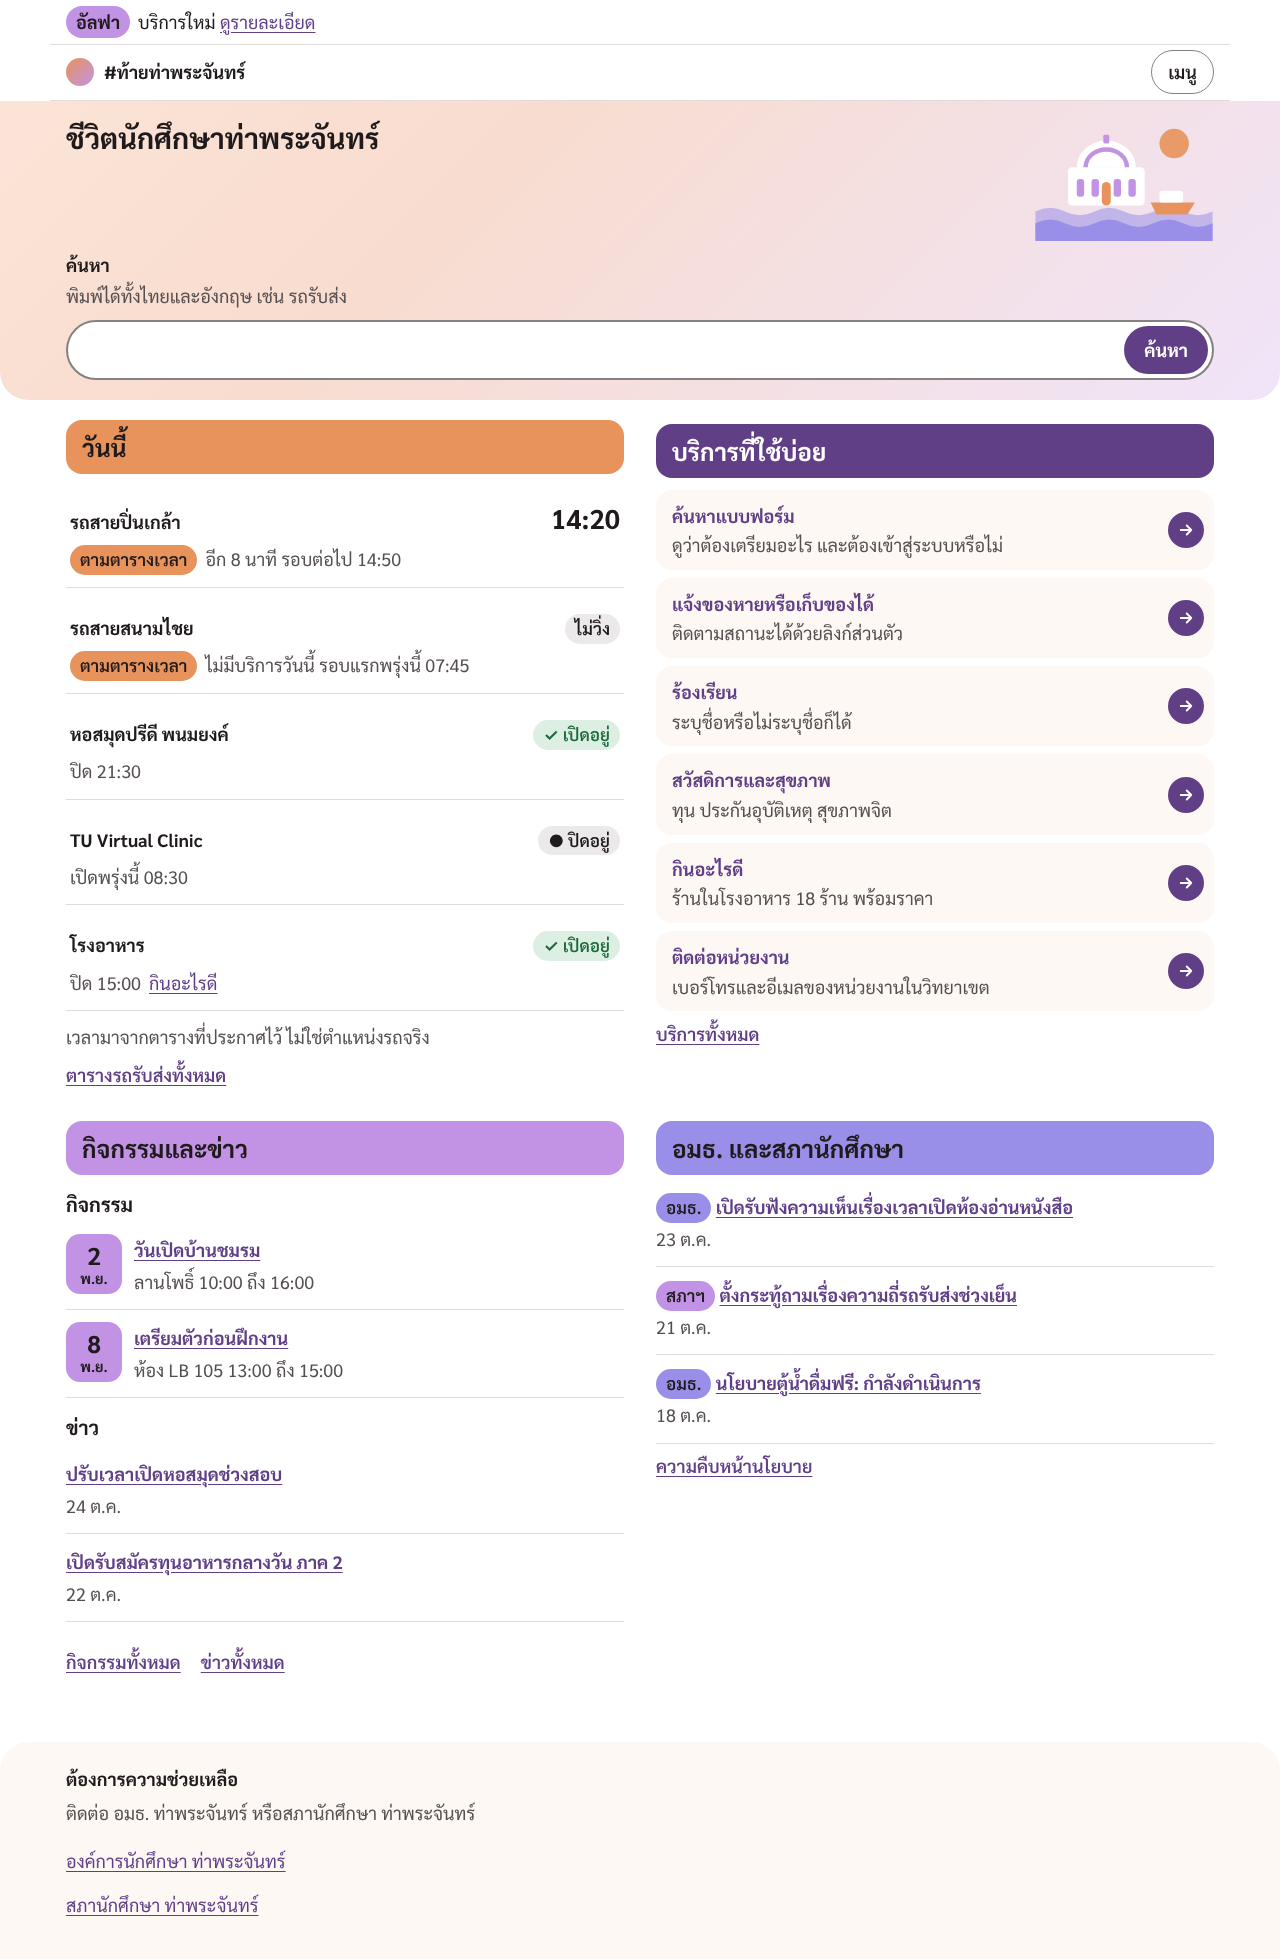
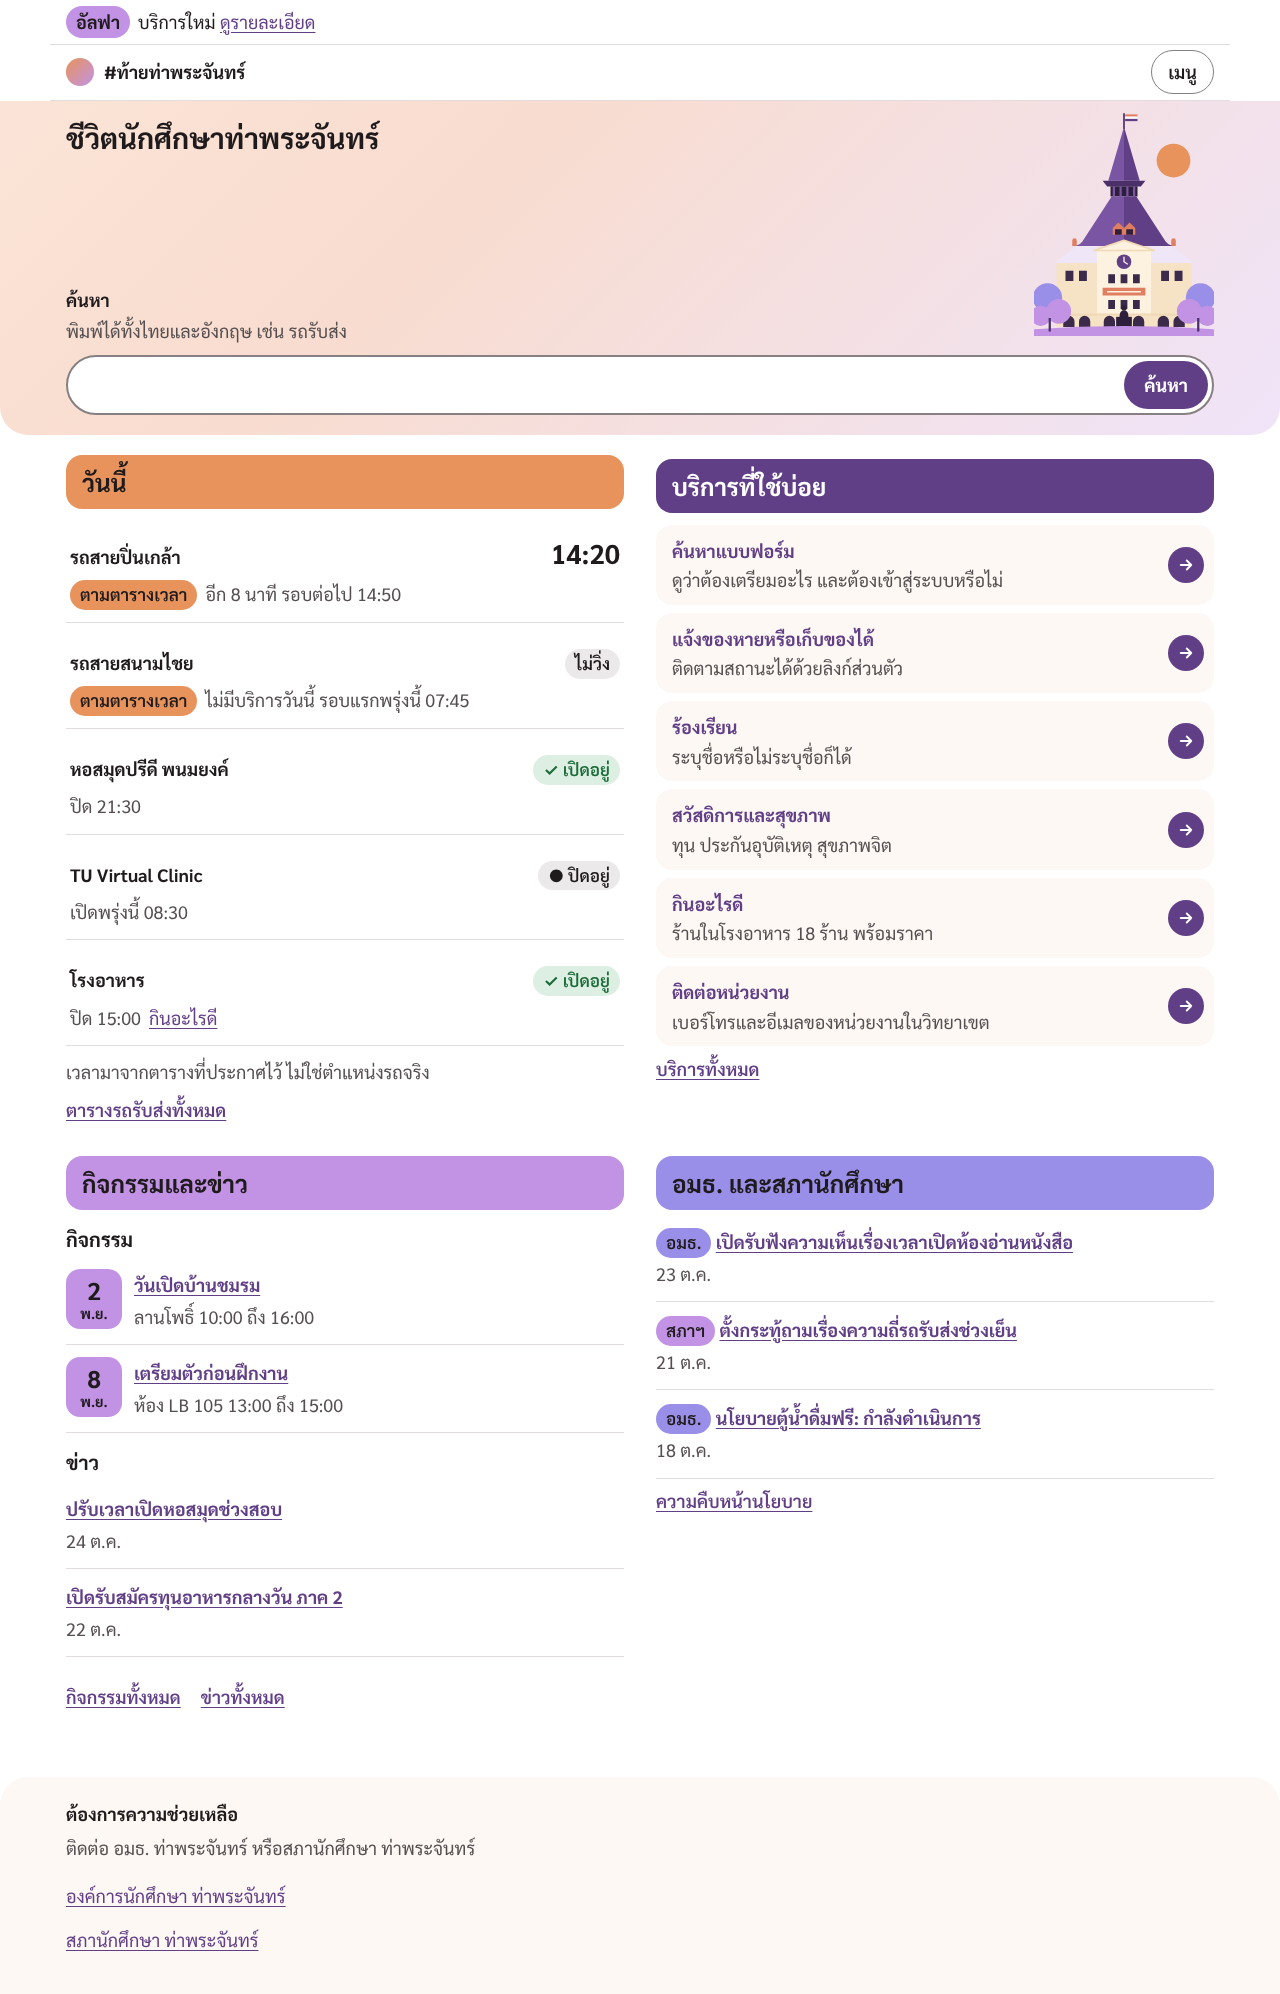
Add the Dome building illustration to the home page mock-up
Claude-Session: https://claude.ai/code/session_01SCeCTKKtYYnQxeXLoo1oGA

diff --git a/docs/mockups/home-warm.html b/docs/mockups/home-warm.html
@@ -87,7 +87,9 @@ a:focus-visible, button:focus-visible, input:focus-visible {
 .band-top { display: flex; align-items: flex-start; justify-content: space-between; gap: 8px; }
 .band h1 { font-size: 1.6rem; font-weight: 700; max-width: 15ch; }
 :lang(th) .band h1 { font-size: 1.6rem; max-width: 12em; }
-.band svg { flex: none; width: 104px; height: 72px; }
+.band .dome { flex: none; width: 100px; margin-block: -6px -34px; }
+.band .dome svg { display: block; width: 100%; height: auto; }
+.band .search { position: relative; }
 .search { margin-top: 8px; }
 .search label { display: block; font-weight: 700; }
 .search .hint { margin: 0 0 8px; color: var(--ink-600); font-size: .875rem; }
@@ -164,7 +166,7 @@ footer li a { display: inline-flex; align-items: center; min-height: var(--targe
 
 @media (min-width: 48rem) {
   .band h1 { font-size: 2.2rem; max-width: none; }
-  .band svg { width: 180px; height: 124px; }
+  .band .dome { width: 180px; margin-bottom: -60px; }
   .grid2 { display: grid; grid-template-columns: 1fr 1fr; gap: 0 32px; align-items: start; }
 }
 </style>
@@ -173,18 +175,42 @@ footer li a { display: inline-flex; align-items: center; min-height: var(--targe
 <div id="app"></div>
 <template id="landmarks">
   <svg viewBox="0 0 120 84" aria-hidden="true" focusable="false">
-    <circle cx="94" cy="18" r="10" fill="var(--fill-transport)" opacity=".9"/>
-    <rect x="22" y="34" width="52" height="26" rx="3" fill="var(--surface)"/>
-    <path d="M28 34 a20 18 0 0 1 40 0 z" fill="var(--surface)"/>
-    <path d="M34 34 a14 12 0 0 1 28 0" fill="none" stroke="var(--fill-activity)" stroke-width="3"/>
-    <rect x="46" y="12" width="4" height="6" rx="1" fill="var(--fill-activity)"/>
-    <g fill="var(--fill-activity)"><rect x="28" y="42" width="5" height="12" rx="2"/><rect x="38" y="42" width="5" height="12" rx="2"/><rect x="53" y="42" width="5" height="12" rx="2"/><rect x="63" y="42" width="5" height="12" rx="2"/></g>
-    <rect x="45" y="44" width="6" height="16" rx="3" fill="var(--fill-transport)"/>
-    <path d="M0 64 q10 -5 20 0 t20 0 t20 0 t20 0 t20 0 t20 0 v20 h-120 z" fill="var(--fill-governance)" opacity=".55"/>
-    <path d="M78 58 h30 l-5 8 h-21 z" fill="var(--fill-transport)"/>
-    <rect x="84" y="50" width="16" height="8" rx="2" fill="var(--surface)"/>
-    <path d="M0 72 q10 -5 20 0 t20 0 t20 0 t20 0 t20 0 t20 0 v12 h-120 z" fill="var(--fill-governance)"/>
+    <circle cx="90" cy="26" r="12" fill="var(--fill-transport)"/>
+    <path d="M0 58 q10 -5 20 0 t20 0 t20 0 t20 0 t20 0 t20 0 v26 h-120 z" fill="var(--fill-governance)" opacity=".55"/>
+    <path d="M30 50 h46 l-7 10 h-32 z" fill="var(--fill-transport)"/>
+    <rect x="38" y="40" width="26" height="10" rx="2" fill="var(--surface)"/>
+    <g fill="var(--fill-activity)"><rect x="42" y="43" width="5" height="4" rx="1"/><rect x="50" y="43" width="5" height="4" rx="1"/><rect x="58" y="43" width="4" height="4" rx="1"/></g>
+    <path d="M0 68 q10 -5 20 0 t20 0 t20 0 t20 0 t20 0 t20 0 v16 h-120 z" fill="var(--fill-governance)"/>
   </svg>
+</template>
+<template id="dome">
+<svg viewBox="0 0 160 200" aria-hidden="true" focusable="false">
+  <circle cx="124" cy="44" r="15" fill="#e7935b"/>
+  <path d="M80 2v14" stroke="#4a2f68" stroke-width="1.5"/>
+  <path d="M81 3h11v2h-11z" fill="#e07e61"/><path d="M81 5h11v2h-11z" fill="#fff"/><path d="M81 7h11v2h-11z" fill="#613f87"/>
+  <path d="M20 134h120v58H20z" fill="#f6e2c4"/>
+  <path d="M18 135l20-15h18v15zM142 135l-20-15h-18v15z" fill="#efe6f7"/>
+  <path d="M34 120h4v-5a2 2 0 0 0-4 0zM122 120h4v-5a2 2 0 0 0-4 0z" fill="#e07e61"/>
+  <path d="M80 14L66 62h14z" fill="#7a55a3"/><path d="M80 14l14 48H80z" fill="#613f87"/>
+  <path d="M61 62h38l-4 5H65z" fill="#4a2f68"/>
+  <path d="M68 67h24v9H68z" fill="#2e1f3d"/>
+  <path d="M70 67h2v9h-2zM76 67h2v9h-2zM82 67h2v9h-2zM88 67h2v9h-2z" fill="#7a55a3"/>
+  <path d="M69 76h11v44H37q4-1 6-4z" fill="#7a55a3"/><path d="M91 76H80v44h43q-4-1-6-4z" fill="#613f87"/>
+  <path d="M70 104l5-5 5 5v6H70zM80 104l5-5 5 5v6H80z" fill="#e07e61"/>
+  <path d="M72 105h6v5h-6zM82 105h6v5h-6z" fill="#2e1f3d"/>
+  <path d="M56 122h48v60H56z" fill="#fdf1df"/>
+  <path d="M53 124l27-9 27 9z" fill="#fdf1df" stroke="#f0d9b5" stroke-width="1.5" stroke-linejoin="round"/>
+  <circle cx="80" cy="134" r="6.5" fill="#613f87"/><path d="M80 134v-4M80 134l3 2" stroke="#fdf1df" stroke-width="1.2" stroke-linecap="round"/>
+  <g fill="#3b2a4a"><path d="M66 145h6v8h-6zM77 145h6v8h-6zM88 145h6v8h-6zM66 168h6v8h-6zM77 168h6v8h-6zM88 168h6v8h-6zM28 142h7v9h-7zM40 142h7v9h-7zM113 142h7v9h-7zM125 142h7v9h-7z"/></g>
+  <path d="M61 157h38v7H61z" fill="#e07e61"/><path d="M65 160h30v1.4H65z" fill="#fdf1df"/>
+  <path d="M20 180h120v2H20z" fill="#f0d9b5"/>
+  <g fill="#3b2a4a"><path d="M26 192v-5a5 5 0 0 1 10 0v5zM40 192v-5a5 5 0 0 1 10 0v5zM62 192v-5a5 5 0 0 1 10 0v5zM88 192v-5a5 5 0 0 1 10 0v5zM110 192v-5a5 5 0 0 1 10 0v5zM124 192v-5a5 5 0 0 1 10 0v5z"/></g>
+  <path d="M73 183h14v11H73z" fill="#2e1f3d"/><circle cx="80" cy="175" r="2.4" fill="#2e1f3d"/><path d="M76 183q0-6 4-6t4 6z" fill="#2e1f3d"/>
+  <path d="M0 194q80-6 160 0v6H0z" fill="#c293e5"/>
+  <g fill="#998fe8"><circle cx="12" cy="166" r="13"/><circle cx="148" cy="166" r="13"/></g>
+  <g fill="#c293e5"><circle cx="22" cy="178" r="11"/><circle cx="6" cy="182" r="9"/><circle cx="138" cy="178" r="11"/><circle cx="154" cy="182" r="9"/></g>
+  <path d="M14 196v-12M146 196v-12" stroke="#4a2f68" stroke-width="2"/>
+</svg>
 </template>
 <script>
 const T = {
@@ -265,6 +291,7 @@ if (q.get("theme") === "dark") document.documentElement.dataset.theme = "dark";
 document.documentElement.lang = lang;
 const s = T[lang];
 const art = document.getElementById("landmarks").innerHTML;
+const domeArt = document.getElementById("dome").innerHTML;
 const arrow = '<svg viewBox="0 0 24 24" fill="none" stroke-width="2.5" stroke-linecap="round" stroke-linejoin="round" aria-hidden="true"><path d="M5 12h14M13 6l6 6-6 6"/></svg>';
 const empty = q.get("empty") === "1";
 document.getElementById("app").innerHTML = `
@@ -272,7 +299,7 @@ document.getElementById("app").innerHTML = `
 <header class="header wrap"><a class="brand" href="#"><span class="mark"></span>${s.name}</a><button class="menu press">${s.menu}</button></header>
 <main>
   <div class="band"><div class="wrap">
-    <div class="band-top"><h1>${s.h1}</h1>${art}</div>
+    <div class="band-top"><h1>${s.h1}</h1><span class="dome">${domeArt}</span></div>
     <form class="search" role="search" action="#"><label for="q">${s.searchLabel}</label><p class="hint" id="qh">${s.searchHint}</p>
       <div class="search-row"><input id="q" name="q" type="search" aria-describedby="qh"><button class="press">${s.searchBtn}</button></div></form>
   </div></div>

diff --git a/docs/home-redesign-plan.md b/docs/home-redesign-plan.md
@@ -129,7 +129,7 @@ h2  Student union and council
 
 Chosen with the product owner on 25 October 2026. The page should feel warm, soft and local without becoming loud. The warmth lives in shape, colour and illustration; behaviour, copy and the honesty rules do not change.
 
-Mock-up: `docs/mockups/home-warm.html` (static, sample content; `?lang=en`, `?theme=dark`, `?empty=1`). Screenshots are in `docs/mockups/shots/`. At 360 by 640 the first shuttle row ends at 578 px in Thai and 487 px in English, and axe (WCAG 2.2 AA tags) reports no violations in either language or theme.
+Mock-up: `docs/mockups/home-warm.html` (static, sample content; `?lang=en`, `?theme=dark`, `?empty=1`). Screenshots are in `docs/mockups/shots/`. At 360 by 640 the first shuttle row ends at 582 px in Thai and 500 px in English, and axe (WCAG 2.2 AA tags) reports no violations in either language or theme.
 
 | Decision | Choice | Detail |
 |---|---|---|
@@ -138,7 +138,7 @@ Mock-up: `docs/mockups/home-warm.html` (static, sample content; `?lang=en`, `?th
 | Section colour | Full fill heading bar | Each `h2` is a 16 px rounded bar in its category fill with `--ink-on-fill`: transport orange for Today, activity lilac for What's on, governance indigo for the union. Popular tasks has no category, so it uses `--colour-action` purple with white text (8.17:1) |
 | Shape | Soft | 16 px radius on bars, task rows and empty states; pills for search, buttons and tags; 28 px on the band and footer corners |
 | Popular tasks | Rounded list rows with an arrow | Full-width rows at least 64 px high on `--surface-alt`, purple label, one scent line, and a round purple arrow. The whole row is the link |
-| Illustration | Campus landmarks | Flat SVGs in the palette (the Dome, the river ferry, the sun over the Chao Phraya). Used in the top band, in empty states and on 404 and error pages. Decorative, `aria-hidden`, under 5 KB each, and coloured with tokens so they follow the theme |
+| Illustration | Campus landmarks | The main illustration is the Dome building (ตึกโดม), drawn from a front photograph: purple spire and lower roof, cream tower with the clock and the red name band, the arcade, the statue, and trees either side (`docs/mockups/illustrations/dome.svg`, 2.4 KB). It sits at the right of the top band, beside the `h1`. Smaller scenes (the river ferry, the sun over the Chao Phraya) are used in empty states and on 404 and error pages. All are decorative, `aria-hidden`, under 5 KB each. The Dome keeps fixed palette colours in both themes because it depicts a real building; the smaller scenes use tokens and follow the theme |
 | Thai type | Keep Sarabun | No extra font download |
 | Voice | Plain everywhere | The official register in CONTRIBUTING.md is unchanged, including empty states |
 | Dark mode | Plum and amber | Surfaces move from near-black to plum (`#1a1220`, `#251a2d`); the band becomes an amber and lilac glow on deep plum; fills use the existing dark values |
@@ -154,6 +154,7 @@ Open points for the build:
 - The date block on event rows uses the lilac fill. Check that it stays legible at 200% text size.
 - The first-screen budget is tight in Thai: the `h1` wraps to two lines beside the illustration. If an alert banner is present, the shuttle row moves below the fold; the target in section 4 already allows for that.
 - The plum dark surfaces need new contrast pairs in `check-contrast.mjs` (section 9).
+- In dark mode the Dome's purple spire sits close to the plum band. It is decorative, so no contrast rule applies, but a lighter roof tone for dark mode is worth testing.
 
 ## 4. Targets the new page must meet
 
